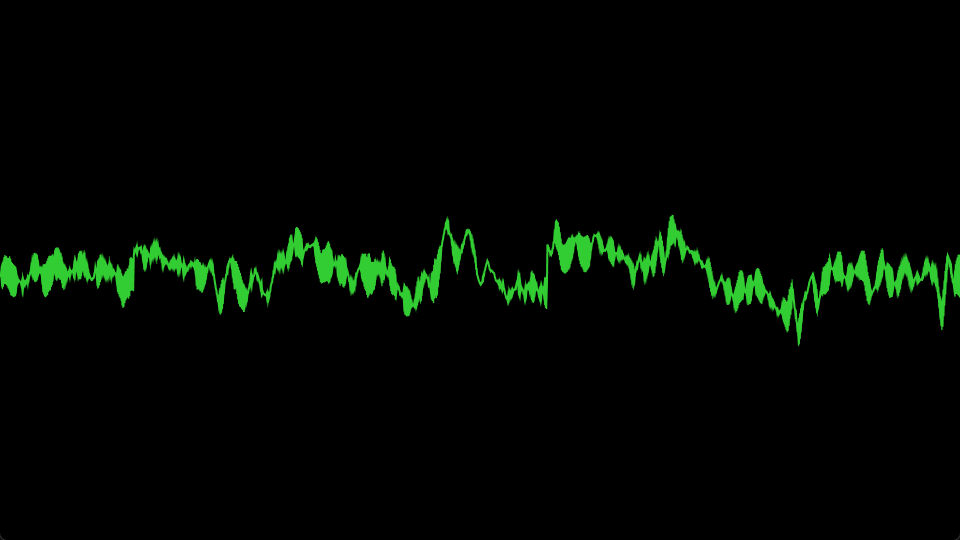
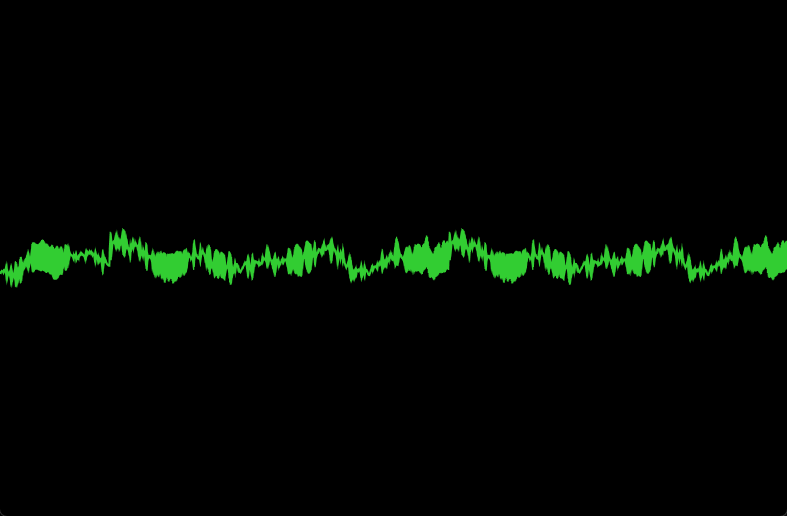
Make console-style bars scale with window size

Changed region(s): [[0.0, 0.4031, 1.0, 0.6202]]

diff --git a/AudioVisualizer/Visualization/Effects/ConsoleStyleBarsEffect.cs b/AudioVisualizer/Visualization/Effects/ConsoleStyleBarsEffect.cs
@@ -7,7 +7,6 @@ public sealed class ConsoleStyleBarsEffect : IVisualizationEffect
 {
     public string Name => "Console-style bars";
 
-    private const int BandHeight = 24;
     private float[] _leftDisplayed = Array.Empty<float>();
     private float[] _rightDisplayed = Array.Empty<float>();
     private VisualizationFrame? _lastFrame;
@@ -70,18 +69,26 @@ public sealed class ConsoleStyleBarsEffect : IVisualizationEffect
                 48);
         }
 
-        var barWidth = 12;
-        var gap = 3;
         var originX = 10;
         var originY = 60;
-        var rowHeight = 16;
+        var maxBarHeight = Math.Max(40, bounds.Height - originY - 10);
 
-        DrawBars(graphics, _leftDisplayed, originX, originY, barWidth, gap, rowHeight, greenBrush, yellowBrush, redBrush);
+        var channels = _rightDisplayed.Length > 0 ? 2 : 1;
+        var interChannelGap = 20;
+        var totalInterChannelGap = channels > 1 ? interChannelGap : 0;
+        var usableWidth = Math.Max(40, bounds.Width - (originX * 2) - totalInterChannelGap);
+        var perChannelWidth = usableWidth / channels;
+        var bandCount = Math.Max(1, _leftDisplayed.Length);
+        var slotWidth = Math.Max(4, perChannelWidth / bandCount);
+        var barWidth = Math.Max(2, (int)(slotWidth * 0.7));
+        var gap = Math.Max(1, slotWidth - barWidth);
+
+        DrawBars(graphics, _leftDisplayed, originX, originY, barWidth, gap, maxBarHeight, greenBrush, yellowBrush, redBrush);
 
         if (_rightDisplayed.Length > 0)
         {
-            var rightOrigin = originX + (_leftDisplayed.Length * (barWidth + gap)) + 20;
-            DrawBars(graphics, _rightDisplayed, rightOrigin, originY, barWidth, gap, rowHeight, greenBrush, yellowBrush, redBrush);
+            var rightOrigin = originX + (_leftDisplayed.Length * (barWidth + gap)) + interChannelGap;
+            DrawBars(graphics, _rightDisplayed, rightOrigin, originY, barWidth, gap, maxBarHeight, greenBrush, yellowBrush, redBrush);
         }
 
 
@@ -94,12 +101,11 @@ public sealed class ConsoleStyleBarsEffect : IVisualizationEffect
         int originY,
         int barWidth,
         int gap,
-        int rowHeight,
+        int maxBarHeight,
         SolidBrush greenBrush,
         SolidBrush yellowBrush,
         SolidBrush redBrush)
     {
-        var maxBarHeight = BandHeight * rowHeight;
         var greenThreshold = (int)(0.5f * maxBarHeight);
         var yellowThreshold = (int)(0.8f * maxBarHeight);
 
